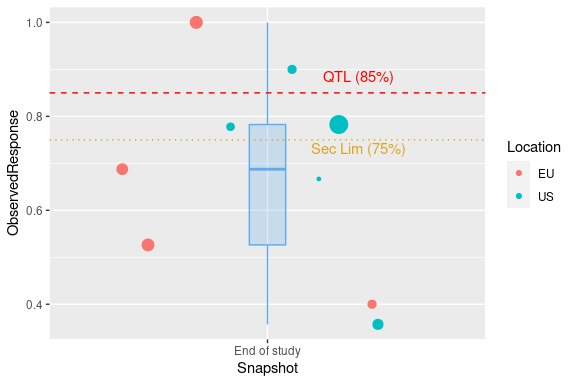
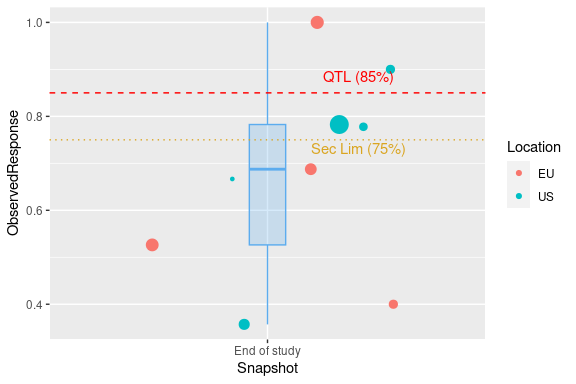
Fix CI complaints

diff --git a/README.md b/README.md
@@ -213,39 +213,39 @@ We fit the Bayesian Hierarchical Model described by Berry et al …
 fitted <- berrySummary %>%
   fitBayesBinomialModel(n = Subjects, r = Events)
 #> Loading required namespace: rjags
-#> INFO [2024-06-17 07:55:30] Status of model fitting: OK
+#> INFO [2024-06-17 08:53:09] Status of model fitting: OK
 fitted
 #> $tab
-#> # A tibble: 20,000 × 4
+#> # A tibble: 20,836 × 4
 #>        p     a     b     q
 #>    <dbl> <dbl> <dbl> <int>
-#>  1 0.814  6.46  2.41    76
-#>  2 0.854  7.28  2.79    84
-#>  3 0.753  6.34  3.09    62
-#>  4 0.691  8.96  3.68    49
-#>  5 0.690  9.58  3.74    48
-#>  6 0.706  8.13  2.52    52
-#>  7 0.583  8.45  3.63    27
-#>  8 0.624  6.44  3.67    34
-#>  9 0.664  3.95  3.65    43
-#> 10 0.608  6.91  3.48    31
-#> # ℹ 19,990 more rows
+#>  1 0.575  3.82  1.66    26
+#>  2 0.605  3.15  1.59    31
+#>  3 0.833  4.62  1.62    80
+#>  4 0.426  1.89  1.58     9
+#>  5 0.978  2.20  1.14    99
+#>  6 0.954  3.85  1.17    98
+#>  7 0.940  2.96  1.13    96
+#>  8 0.943  3.61  1.59    97
+#>  9 0.858  4.52  1.45    85
+#> 10 0.901  4.98  1.26    92
+#> # ℹ 20,826 more rows
 #> 
 #> $results
 #> 
-#> JAGS model summary statistics from 20000 samples (chains = 2; adapt+burnin = 5000):
-#>                                                                          
-#>       Lower95 Median Upper95    Mean      SD Mode     MCerr MC%ofSD SSeff
-#> p[10] 0.36562 0.6991 0.99996 0.68282 0.17257   -- 0.0013713     0.8 15837
-#> a      2.2683 5.9563  9.9997  5.9373  2.2751   --  0.056178     2.5  1640
-#> b     0.62627 2.6183  5.1708  2.7753  1.2508   --  0.031487     2.5  1578
+#> JAGS model summary statistics from 20836 samples (chains = 2; adapt+burnin = 5000):
+#>                                                                           
+#>       Lower95  Median Upper95    Mean      SD Mode     MCerr MC%ofSD SSeff
+#> p[10] 0.36856 0.69773       1 0.68025 0.17209   -- 0.0013352     0.8 16613
+#> a      2.2047  5.8995  9.9991   5.924  2.2988   --  0.061009     2.7  1420
+#> b       0.571  2.6364  5.1576  2.7799   1.275   --  0.032924     2.6  1500
 #>                       
 #>           AC.10   psrf
-#> p[10] 0.0094542      1
-#> a       0.21013 1.0011
-#> b       0.22843 1.0003
+#> p[10] 0.0033229 1.0001
+#> a       0.25214 1.0006
+#> b       0.25214 1.0006
 #> 
-#> Total time taken: 3.9 seconds
+#> Total time taken: 4.4 seconds
 #> 
 #> 
 #> $status
@@ -293,7 +293,7 @@ berrySummary %>%
 #> [1] "OK"
 #> 
 #> $qtl
-#> [1] 0.6828212
+#> [1] 0.6801711
 #> 
 #> $data
 #> # A tibble: 9 × 5
@@ -353,7 +353,7 @@ berrySummary %>%
 #> [1] "OK"
 #> 
 #> $qtl
-#> [1] 0.6991032
+#> [1] 0.697669
 #> 
 #> $data
 #> # A tibble: 9 × 5
@@ -386,7 +386,7 @@ berrySummary %>%
 #> 
 #> $qtl
 #>       10% 
-#> 0.4495861 
+#> 0.4487256 
 #> 
 #> $data
 #> # A tibble: 9 × 5
@@ -428,7 +428,7 @@ qtlProbInRange
 #> [1] "action"
 #> 
 #> $qtl
-#> [1] 0.46465
+#> [1] 0.4666923
 #> 
 #> $data
 #> # A tibble: 9 × 5
@@ -446,7 +446,7 @@ qtlProbInRange
 ```
 
 Again, the QTL is breached, since the probability that the study-level
-event rate is in the range \[0.5, 0.75\] is only 0.46.
+event rate is in the range \[0.5, 0.75\] is only 0.47.
 
 #### Using an arbitrary criterion
 
@@ -485,7 +485,7 @@ berrySummary %>%
     }
   )
 #> $qtl
-#> [1] 0.6828212
+#> [1] 0.6801711
 #> 
 #> $status
 #> [1] "Breach"
@@ -536,17 +536,17 @@ The `quantiles` element of the return value contains the mappings from
 quantile of the posterior to observed values of the metric. For example,
 the first row of `rvSiteMetrics$quantiles` shows that the lower action
 limit is the 5th centile of the posterior, which corresponds to an event
-probability of 0.366.
+probability of 0.369.
 
 ``` r
 rvSiteMetrics$quantiles
 #> # A tibble: 4 × 4
 #>   Threshold Status Quantile     p
 #>   <chr>     <chr>     <dbl> <dbl>
-#> 1 Lower     action     0.05 0.366
-#> 2 Lower     warn       0.2  0.543
-#> 3 Upper     warn       0.8  0.838
-#> 4 Upper     action     0.95 0.933
+#> 1 Lower     action     0.05 0.369
+#> 2 Lower     warn       0.2  0.537
+#> 3 Upper     warn       0.8  0.835
+#> 4 Upper     action     0.95 0.930
 ```
 
 As before, the `data` element of the list contains a copy of the site
@@ -988,7 +988,7 @@ Fitting the model is straightforward.
 ``` r
 poissonFit <- cavalrySummary %>%
   fitBayesPoissonModel(Deaths, TotalTime)
-#> INFO [2024-06-17 07:55:41] Status of model fitting: OK
+#> INFO [2024-06-17 08:53:20] Status of model fitting: OK
 poissonFit$tab %>%
   createQtlPlot(
     metric = lambda,
@@ -1092,7 +1092,6 @@ Pharmaceutical Company.” *PharmaSUG*.
 
 Katz D, Azen SP, Baptista J. 1978. “Obtaining Confidence Intervals for
 the Risk Ratio in Cohort Studies.” *Biometrics* 34 (3): 469–74.
-https://doi.org/<https://doi.org/10.2307/2530610>.
 
 </div>
 
